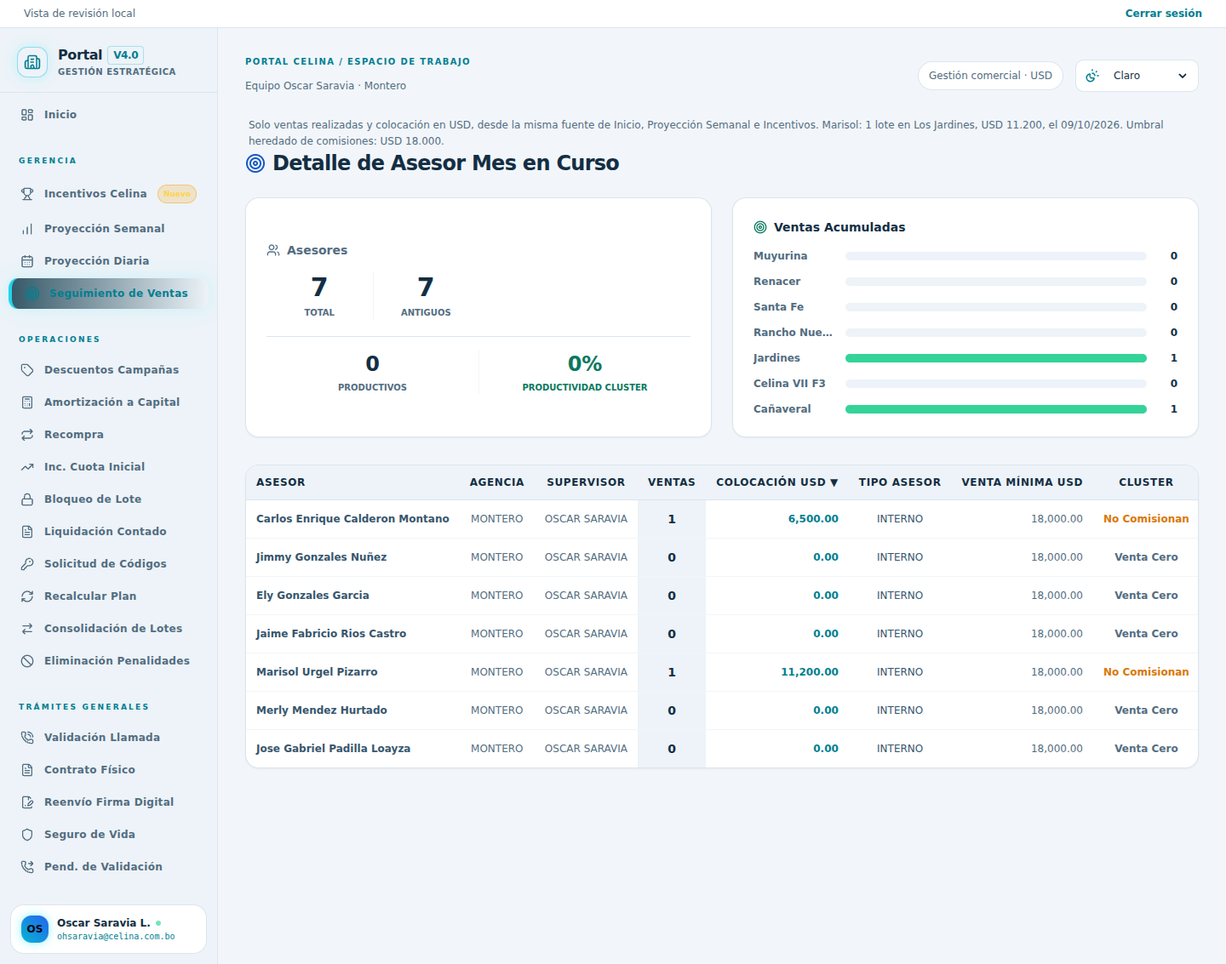
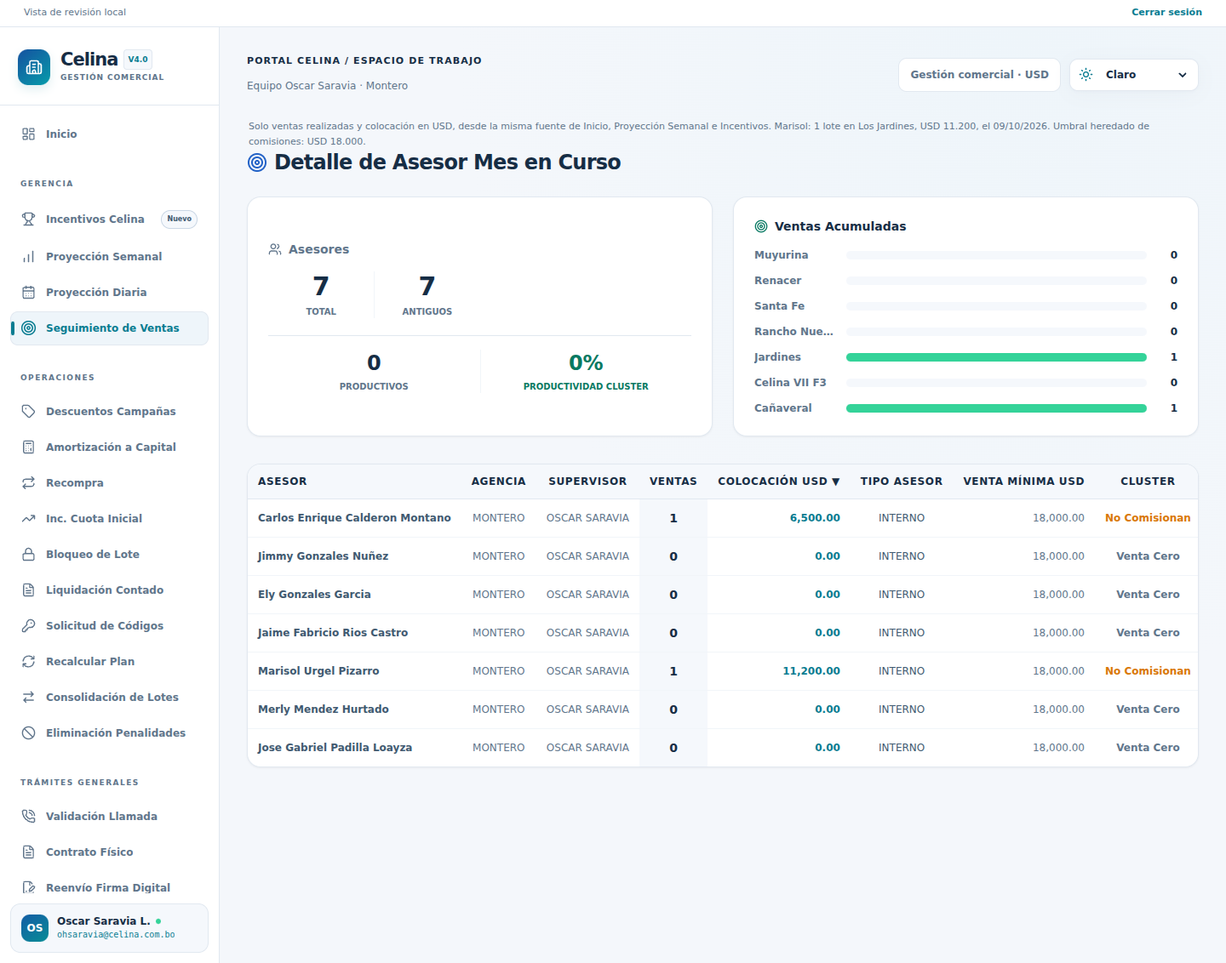
feat(ui): acabado ejecutivo en claro y oscuro con accesos directos

diff --git a/src/index.css b/src/index.css
@@ -119,3 +119,153 @@ progress { border:0; border-radius:8px; overflow:hidden; }
 progress::-webkit-progress-bar { background:var(--bg-card-inner); }
 progress::-webkit-progress-value { background:var(--emerald); border-radius:8px; }
 progress::-moz-progress-bar { background:var(--emerald); border-radius:8px; }
+
+/* Acabado V4: superficies, navegación y jerarquía comunes a todos los módulos. */
+:root {
+  --bg-space:#f4f7fb; --bg-card-inner:#f5f8fc; --bg-card-hover:#eef5fa;
+  --border-glow:#e1e8f0; --border-highlight:#c9d6e4;
+  --text-primary:#162d45; --text-secondary:#405970; --text-muted:#60758b;
+  --accent:#087c91; --blue:#2463c7; --emerald:#087962;
+  --surface-shadow:0 4px 24px rgba(23,46,78,.035),0 1px 3px rgba(23,46,78,.025);
+  --hero-bg:#102b46; --hero-text:#f5faff; --hero-muted:#bacfe1;
+}
+:root[data-theme="dark"] {
+  --bg-space:#09111f; --bg-card:#111e30; --bg-card-inner:#152438; --bg-card-hover:#1a2d43;
+  --border-glow:#233449; --border-highlight:#3b536e;
+  --text-primary:#f0f6fc; --text-secondary:#c1d1e2; --text-muted:#9eafc4;
+  --accent:#72dddf; --blue:#94baff; --emerald:#70dfb8;
+  --surface-shadow:0 6px 28px rgba(0,0,0,.13);
+  --hero-bg:#10233b;
+}
+body { font-variant-numeric:lining-nums; }
+::selection { background:#8ce4de; color:#102b46; }
+.workspace-main { background:radial-gradient(ellipse at 80% 0%,var(--bg-card-hover),transparent 50%),var(--bg-space); }
+.workspace-content { max-width:1480px; }
+.workspace-toolbar { padding-bottom:28px; }
+.workspace-toolbar .eyebrow { color:var(--text-primary); letter-spacing:.1em; font-size:11px; }
+.workspace-toolbar>div>span { font-size:12px; }
+.toolbar-actions { gap:10px; }
+.rate-pill { border-radius:10px; font-weight:600; background:var(--bg-card); padding:10px 13px; }
+.theme-selector { border-radius:10px; box-shadow:var(--surface-shadow); padding:6px 10px; gap:7px; }
+.theme-selector select { min-width:87px; font-weight:600; cursor:pointer; color:var(--text-primary); }
+.session-bar { font-size:11px; background:var(--bg-card); }
+.workspace-sidebar { width:258px; background:var(--bg-card)!important; border-color:var(--border-glow); height:100dvh; }
+.sidebar-brand { padding:26px 21px 23px; }
+.sidebar-brand h1 { font-size:21px; font-weight:750; letter-spacing:-.045em; }
+.sidebar-brand h1 span { font-size:9px; background:var(--bg-card-inner); border:1px solid var(--border-glow); padding:3px 5px; letter-spacing:0; }
+.sidebar-brand p { font-size:9px; font-weight:600; letter-spacing:.1em; margin-top:3px; }
+.sidebar-mark { background:linear-gradient(140deg,#1551a0,#069caa); color:#fff!important; border:0; box-shadow:0 5px 12px #087c9120; width:38px; height:42px; border-radius:12px; }
+.workspace-sidebar nav { padding:14px 12px; }
+.nav-section { padding-top:22px; padding-bottom:8px; }
+.nav-section span { color:var(--text-muted); font-size:9px; font-weight:650; letter-spacing:.16em; }
+.nav-item { background:transparent; font-size:12px; font-weight:550; padding:10px 12px; border:1px solid transparent; border-radius:9px; min-height:40px; transition:background .18s,color .18s; }
+.nav-item span { letter-spacing:0; }
+.nav-item svg { width:17px; height:17px; }
+.nav-item:hover { background:var(--bg-card-inner); }
+.nav-item[aria-current="page"] { background:var(--bg-card-hover); background-image:none; border:1px solid var(--border-glow); box-shadow:none; color:var(--accent); font-weight:700; }
+.nav-item[aria-current="page"]::after { content:""; width:4px; height:16px; border-radius:4px; position:absolute; left:0; top:50%; transform:translateY(-50%); background:var(--accent); }
+.nav-item>span { color:var(--text-secondary); background:var(--bg-card-inner); border-color:var(--border-highlight); font-size:8px; }
+.sidebar-profile { box-shadow:none; border-radius:12px; background:var(--bg-card-inner); padding:12px; }
+.sidebar-profile>div>div:first-child { color:#fff; box-shadow:none; border-radius:10px; background:linear-gradient(145deg,#135ca5,#098d96); }
+.sidebar-profile .animate-pulse { animation:none; }
+.mobile-workspace-header { background:var(--bg-card); box-shadow:none; }
+.eyebrow { font-size:10px; font-weight:700; letter-spacing:.13em; }
+.executive-dashboard { gap:24px; }
+.dashboard-hero { position:relative; isolation:isolate; overflow:hidden; border:1px solid #28465f; border-radius:22px; padding:36px 40px; gap:28px; color:var(--hero-text); background:radial-gradient(ellipse at 90% 15%,#15576b80,transparent 52%),linear-gradient(120deg,var(--hero-bg),#123b52); box-shadow:0 12px 30px #0b294314; }
+.dashboard-hero::before { content:""; position:absolute; inset:0; z-index:-1; opacity:.18; background-image:linear-gradient(#bfdde210 1px,transparent 1px),linear-gradient(90deg,#bfdde210 1px,transparent 1px); background-size:38px 38px; mask-image:linear-gradient(90deg,transparent 30%,#000); pointer-events:none; }
+.hero-content { flex:1; min-width:0; }
+.dashboard-hero .eyebrow { display:inline-flex; align-items:center; gap:8px; color:#bee6e9; font-size:9px; letter-spacing:.15em; padding:7px 11px; border-radius:30px; border:1px solid #8ae4dc30; background:#b3eeee08; }
+.hero-status-dot { width:5px; height:5px; border-radius:50%; background:#7ce6d7; }
+.dashboard-hero h1 { color:var(--hero-text); font-size:clamp(30px,3.15vw,44px); font-weight:700; line-height:1.18; letter-spacing:-.045em; margin:19px 0 12px; }
+.dashboard-hero h1 span { color:#88e2dc; }
+.dashboard-hero p:not(.eyebrow) { color:var(--hero-muted); font-size:13px; margin:0; line-height:1.7; }
+.hero-actions { display:flex; flex-wrap:wrap; gap:10px; margin-top:24px; }
+.hero-actions button { display:inline-flex; align-items:center; gap:12px; padding:11px 16px; border-radius:9px; border:1px solid #8dc1d440; background:#ffffff08; color:#e5f3fc; font-size:12px; font-weight:600; transition:background .18s,transform .18s; }
+.hero-actions .hero-action-primary { color:#12344a; background:#a0ede2; border-color:#a0ede2; }
+.hero-actions button:hover { background:#ffffff18; transform:translateY(-1px); }
+.hero-actions .hero-action-primary:hover { background:#b7f4ea; }
+.hero-meta { color:#bdd1e1; font-size:10px; margin-top:24px; }
+.hero-score { text-align:center; flex-shrink:0; padding:0 8px; }
+.achievement-ring { width:180px; height:180px; padding:7px; background:conic-gradient(#7de4d6 var(--achievement),#ffffff16 0); box-shadow:0 0 0 12px #ffffff03; }
+.achievement-ring>div { background:#15374b; padding:18px; }
+.achievement-ring strong { font-size:34px; font-weight:700; color:#fff; letter-spacing:-.04em; margin-top:8px; }
+.achievement-ring small { font-size:17px; margin-left:2px; color:#9ae5de; }
+.achievement-ring span { color:#c2d8e4; font-size:9px; }
+.achievement-ring .ring-label { font-size:7px; letter-spacing:.13em; color:#8cdfd8; margin:0; }
+.hero-score>p { margin-top:20px!important; font-size:10px!important; }
+.hero-score>p strong { display:block; color:#e7f4fa; font-size:14px; font-weight:600; margin-top:3px; }
+.source-note { font-size:11px; margin:0; padding:0 2px; }
+.metric-grid { gap:16px; }
+.metric-card,.panel { border-radius:16px; box-shadow:var(--surface-shadow); }
+.metric-card { position:relative; overflow:hidden; padding:22px 20px 19px; transition:transform .18s,box-shadow .18s; }
+.metric-card:hover { transform:translateY(-2px); box-shadow:0 8px 28px #102a4910; }
+.metric-card>div { font-size:11px; font-weight:600; align-items:flex-start; }
+.metric-card>div svg { padding:7px; width:34px; height:34px; background:var(--bg-card-inner); border-radius:10px; flex-shrink:0; margin-top:-4px; }
+.metric-card strong { font-size:clamp(21px,2vw,28px); font-weight:700; margin:17px 0 9px; letter-spacing:-.04em; }
+.metric-card p { font-size:10px; margin:0; min-height:32px; }
+.metric-card.current { border-top:2px solid var(--emerald); }
+.panel { padding:25px; }
+.panel h2 { font-size:20px; letter-spacing:-.035em; }
+.panel .eyebrow { color:var(--text-muted); font-size:9px; letter-spacing:.12em; }
+.subtle-badge { border:1px solid var(--border-glow); border-radius:20px; padding:6px 9px; white-space:nowrap; font-size:9px; }
+.table-tools { gap:9px; margin-top:18px; margin-bottom:18px; }
+.table-tools label,.table-tools select { background:var(--bg-card-inner); min-height:38px; }
+.executive-table { font-size:11px; }
+.executive-table th { font-size:10px; text-transform:none; letter-spacing:0; white-space:normal; background:var(--bg-card-inner); padding:13px 9px; }
+.executive-table td { padding:15px 9px; border-color:var(--border-glow); }
+.executive-table td:first-child { font-weight:550; white-space:normal; min-width:180px; max-width:230px; }
+.executive-table tbody tr:last-child td { border-bottom:0; }
+.executive-table tfoot { background:var(--bg-card-inner); }
+.executive-table tfoot td { border-bottom:0; }
+.advisor-avatar { width:29px; height:29px; border:1px solid var(--border-glow); border-radius:50%; font-size:9px; }
+.project-bars { gap:22px; }
+.project-bars>div>div:first-child { font-size:11px; }
+.bar-track { height:7px; }
+.bar-track>div { background:linear-gradient(90deg,#2467b6,#129da2); }
+.goal-progress>div { font-size:11px; }
+.reconciliation-status { border-radius:0 9px 9px 0; }
+.file-label input::file-selector-button { background:var(--bg-card-inner); color:var(--text-primary); border:1px solid var(--border-highlight); border-radius:7px; padding:7px 10px; margin-right:8px; cursor:pointer; }
+.workspace-main .shadow-2xl { box-shadow:var(--surface-shadow); }
+.workspace-main .rounded-3xl { border-radius:18px; }
+.form-field>label { font-weight:600; text-transform:none; letter-spacing:0; font-size:12px; margin-bottom:8px; }
+.form-field input,.form-field textarea { box-shadow:none; background:var(--bg-card); font-weight:450; font-size:13px; padding:12px 14px; border-color:var(--border-highlight); border-radius:10px; }
+.form-field input:hover,.form-field textarea:hover { border-color:var(--accent); }
+.form-field input:focus,.form-field textarea:focus { box-shadow:0 0 0 3px var(--cyan-glow); }
+.email-preview { border-radius:10px; padding:20px; }
+.login-card { box-shadow:var(--surface-shadow); border-radius:20px; }
+@media(min-width:1600px) { .workspace-main { padding:36px 44px; } }
+@media(max-width:1100px) { .dashboard-hero { padding:30px; } .metric-card strong { font-size:26px; } }
+@media(max-width:767px) {
+  .workspace-toolbar { gap:15px; padding:8px 3px 22px; }
+  .workspace-toolbar .eyebrow { font-size:10px; }
+  .toolbar-actions { justify-content:space-between; gap:8px; }
+  .rate-pill { font-size:10px!important; padding:10px; }
+  .theme-selector select { min-width:93px; font-size:12px!important; padding:4px; }
+  .theme-selector { padding:6px 8px; }
+  .executive-dashboard { gap:18px; }
+  .dashboard-hero { padding:25px 22px; gap:27px; border-radius:18px; align-items:stretch; }
+  .dashboard-hero h1 { font-size:32px; }
+  .dashboard-hero .eyebrow { font-size:8px; letter-spacing:.09em; }
+  .hero-actions { gap:8px; margin-top:21px; }
+  .hero-actions button { padding:10px 12px; font-size:11px; gap:8px; }
+  .hero-score { display:flex; align-items:center; justify-content:center; gap:22px; border-top:1px solid #a1d5e222; padding:22px 0 0; }
+  .achievement-ring { width:130px; height:130px; padding:5px; }
+  .achievement-ring>div { padding:12px; }
+  .achievement-ring strong { font-size:27px; }
+  .achievement-ring .ring-label { font-size:6px; }
+  .achievement-ring span { font-size:8px; }
+  .hero-score>p { margin:0!important; }
+  .hero-score>p strong { font-size:13px; }
+  .metric-grid { gap:10px; }
+  .metric-card { padding:17px 14px 16px; }
+  .metric-card>div { font-size:10px; gap:7px; }
+  .metric-card>div svg { width:27px; height:27px; padding:5px; }
+  .metric-card strong { font-size:20px; margin-top:15px; }
+  .metric-card p { font-size:9px; }
+  .panel { padding:20px 17px; }
+  .panel h2 { font-size:18px; }
+  .panel-heading { gap:8px; flex-wrap:wrap; }
+  .source-note { font-size:10px; }
+  .theme-selector { flex-shrink:0; }
+  .form-field input,.form-field textarea { font-size:16px; }
+}

diff --git a/src/views/Dashboard.jsx b/src/views/Dashboard.jsx
@@ -6,7 +6,7 @@ import { reconcileSale } from '../utils/commercial';
 const money = value => `USD ${new Intl.NumberFormat('es-BO', { minimumFractionDigits: 0, maximumFractionDigits: 2 }).format(value)}`;
 const percent = value => new Intl.NumberFormat('es-BO', { maximumFractionDigits: 2, minimumFractionDigits: 2 }).format(value);
 
-export default function Dashboard() {
+export default function Dashboard({ onNavigate }) {
   const [query, setQuery] = useState('');
   const [sort, setSort] = useState('name');
   const [records, setRecords] = useState(null);
@@ -26,7 +26,22 @@ export default function Dashboard() {
     } catch (failure) { setError(failure.message); }
   }
   return <div className="executive-dashboard">
-    <section className="dashboard-hero"><div><p className="eyebrow">DIRECCIÓN COMERCIAL · OCTUBRE 2026</p><h1>Una visión clara.<br/><span>Un equipo con rumbo.</span></h1><p>Resultados, oportunidades y decisiones en un solo lugar.</p><div className="hero-meta"><CalendarDays size={16}/> Corte de referencia: 10 de octubre de 2026 <span>·</span> 7 asesores · {advisors.reduce((sum, a) => sum + a.confirmedSales, 0)} ventas realizadas</div></div><div className="achievement-ring" style={{ '--achievement': `${Math.min(summary.achievementPct, 100)}%` }}><div><strong>{percent(summary.achievementPct)}<small>%</small></strong><span>Cumplimiento proyectado</span></div></div></section>
+    <section className="dashboard-hero">
+      <div className="hero-content">
+        <p className="eyebrow"><span className="hero-status-dot"/> DIRECCIÓN COMERCIAL · OCTUBRE 2026</p>
+        <h1>Una visión clara.<br/><span>Un equipo con rumbo.</span></h1>
+        <p>Resultados, oportunidades y decisiones en un solo lugar.</p>
+        <div className="hero-actions">
+          <button className="hero-action-primary" onClick={() => onNavigate?.('proyeccion')}>Revisar proyección <ArrowUpRight size={16}/></button>
+          <button onClick={() => onNavigate?.('seguimiento')}>Ver ventas <ArrowUpRight size={16}/></button>
+        </div>
+        <div className="hero-meta"><CalendarDays size={15}/> Corte: 10 de octubre de 2026 <span>·</span> 7 asesores · {advisors.reduce((sum, a) => sum + a.confirmedSales, 0)} ventas realizadas</div>
+      </div>
+      <div className="hero-score">
+        <div className="achievement-ring" style={{ '--achievement': `${Math.min(summary.achievementPct, 100)}%` }}><div><span className="ring-label">CIERRE PROYECTADO</span><strong>{percent(summary.achievementPct)}<small>%</small></strong><span>Cumplimiento proyectado</span></div></div>
+        <p>Objetivo mensual <strong>{money(targetUsd)}</strong></p>
+      </div>
+    </section>
     <p className="source-note"><ShieldCheck size={16}/> Ventas realizadas reportadas por supervisión. Inicio, Proyección Semanal, Seguimiento e Incentivos comparten esta colocación en USD. Las oportunidades proyectadas se mantienen separadas.</p>
     <div className="metric-grid">{[
       { label: 'Colocación actual', value: summary.actualUsd, detail: 'Solo ventas realizadas · USD 11.200 de Marisol incluidos', icon: CircleDollarSign, className: 'current' },
@@ -34,7 +49,7 @@ export default function Dashboard() {
       { label: 'Cierre de mes proyectado', value: summary.totalUsd, detail: 'Actual + proyección semanal', icon: ArrowUpRight },
       { label: 'Brecha proyectada', value: summary.gapUsd, detail: `Objetivo mensual: ${money(targetUsd)}`, icon: Target },
     ].map(({label, value, detail, icon: Icon, className}) => <article className={`metric-card ${className || ''}`} key={label}><div><span>{label}</span><Icon size={20}/></div><strong>{money(value)}</strong><p>{detail}</p></article>)}</div>
-    <div className="dashboard-columns"><section className="panel"><div className="panel-heading"><div><p className="eyebrow">DESEMPEÑO DEL EQUIPO</p><h2>Colocación por asesor</h2></div><span className="subtle-badge">Dólares americanos</span></div><div className="table-tools"><label><Search size={16}/><input aria-label="Buscar asesor" placeholder="Buscar asesor…" value={query} onChange={e => setQuery(e.target.value)}/></label><select aria-label="Orden de asesores" value={sort} onChange={e => setSort(e.target.value)}><option value="name">Nombre</option><option value="total">Mayor proyección</option></select></div><div className="table-scroll"><table className="executive-table"><thead><tr><th>Asesor</th><th>Ventas realizadas</th><th>Actual USD</th><th>Proyección USD</th><th>Total USD</th></tr></thead><tbody>{rows.map(a => <tr key={a.id}><td><span className="advisor-avatar">{a.nombre.split(' ').slice(0,2).map(n => n[0]).join('')}</span>{a.nombre}</td><td>{a.confirmedSales}</td><td>{money(a.actualUsd)}</td><td>{money(a.projectionUsd)}</td><td><strong>{money(a.actualUsd + a.projectionUsd)}</strong></td></tr>)}</tbody><tfoot><tr><th>Total equipo</th><td>{advisors.reduce((sum, a) => sum + a.confirmedSales, 0)}</td><td>{money(summary.actualUsd)}</td><td>{money(summary.projectionUsd)}</td><td>{money(summary.totalUsd)}</td></tr></tfoot></table>{!rows.length && <p>No se encontraron asesores.</p>}</div></section><section className="panel"><p className="eyebrow">OPORTUNIDADES</p><h2>7 lotes por concretar</h2><p className="muted">Distribución de la proyección, separada de los cierres.</p><div className="project-bars">{Object.entries(PROJECT_PROJECTION).map(([project, quantity]) => <div key={project}><div><span>{project}</span><strong>{quantity} {quantity === 1 ? 'lote' : 'lotes'}</strong></div><div className="bar-track"><div style={{width: `${quantity / 7 * 100}%`}}/></div></div>)}</div><div className="goal-progress"><div><span>Avance actual</span><strong>{percent(summary.currentPct)} %</strong></div><progress max="100" value={summary.currentPct} aria-label="Avance actual respecto al objetivo mensual"/><p>{money(summary.actualUsd)} de {money(targetUsd)}</p></div></section></div>
+    <div className="dashboard-columns"><section className="panel"><div className="panel-heading"><div><p className="eyebrow">DESEMPEÑO DEL EQUIPO</p><h2>Colocación por asesor</h2></div><span className="subtle-badge">7 asesores · USD</span></div><div className="table-tools"><label><Search size={16}/><input aria-label="Buscar asesor" placeholder="Buscar asesor…" value={query} onChange={e => setQuery(e.target.value)}/></label><select aria-label="Orden de asesores" value={sort} onChange={e => setSort(e.target.value)}><option value="name">Nombre</option><option value="total">Mayor proyección</option></select></div><div className="table-scroll"><table className="executive-table"><thead><tr><th>Asesor</th><th>Ventas realizadas</th><th>Actual USD</th><th>Proyección USD</th><th>Total USD</th></tr></thead><tbody>{rows.map(a => <tr key={a.id}><td><span className="advisor-avatar">{a.nombre.split(' ').slice(0,2).map(n => n[0]).join('')}</span>{a.nombre}</td><td>{a.confirmedSales}</td><td>{money(a.actualUsd)}</td><td>{money(a.projectionUsd)}</td><td><strong>{money(a.actualUsd + a.projectionUsd)}</strong></td></tr>)}</tbody><tfoot><tr><th>Total equipo</th><td>{advisors.reduce((sum, a) => sum + a.confirmedSales, 0)}</td><td>{money(summary.actualUsd)}</td><td>{money(summary.projectionUsd)}</td><td>{money(summary.totalUsd)}</td></tr></tfoot></table>{!rows.length && <p>No se encontraron asesores.</p>}</div></section><section className="panel"><p className="eyebrow">OPORTUNIDADES</p><h2>7 lotes por concretar</h2><p className="muted">Distribución de la proyección, separada de los cierres.</p><div className="project-bars">{Object.entries(PROJECT_PROJECTION).map(([project, quantity]) => <div key={project}><div><span>{project}</span><strong>{quantity} {quantity === 1 ? 'lote' : 'lotes'}</strong></div><div className="bar-track"><div style={{width: `${quantity / 7 * 100}%`}}/></div></div>)}</div><div className="goal-progress"><div><span>Avance actual</span><strong>{percent(summary.currentPct)} %</strong></div><progress max="100" value={summary.currentPct} aria-label="Avance actual respecto al objetivo mensual"/><p>{money(summary.actualUsd)} de {money(targetUsd)}</p></div></section></div>
     <div className="dashboard-columns"><section className="panel"><p className="eyebrow">CONCILIACIÓN DE OPERACIONES</p><h2>Marisol · {MARISOL_REFERENCE.project}</h2><p>{MARISOL_REFERENCE.lots} lote · USD {percent(MARISOL_REFERENCE.amountUsd)} · 09/10/2026. Venta reportada por supervisión e incluida una sola vez en las cuatro pestañas.</p><p>La colocación actual incluye únicamente ventas realizadas en USD. Las proyecciones no incrementan esta colocación ni la cantidad de ventas.</p><p className="reconciliation-status" role="status">{reconciliation.status === 'unverified' ? 'Registro remoto sin verificar: no existe conexión de ventas en esta versión.' : reconciliation.status === 'possible_duplicate' ? `${reconciliation.matches.length === 1 ? 'Se encontró 1 coincidencia candidata.' : `Se encontraron ${reconciliation.matches.length} coincidencias candidatas.`} Verifique el contrato antes de registrar.` : 'No se encontró coincidencia en el archivo proporcionado. Esto no confirma su ausencia en el CRM.'}</p><label className="file-label">Conciliar un extracto JSON del CRM (solo lectura)<input type="file" accept=".json,application/json" onChange={readRecords}/></label>{error && <p role="alert">{error}</p>}<details><summary>Datos pendientes para confirmar la operación</summary><p>Contrato o identificador único, cliente, UV, manzano, lote, comprobante y estado de validación. La referencia de supervisión no sustituye el registro ni la validación del contrato en el CRM. El archivo se analiza localmente y no se guarda ni envía.</p></details></section><section className="panel"><p className="eyebrow">VENTAS REALIZADAS</p><h2>Colocación del equipo · USD</h2><ul className="rate-history">{sales.map(sale => <li key={sale.id}><strong>{sale.advisor}</strong><span>{sale.project} · {sale.lots} lote · {money(sale.amountUsd)} · {sale.date ? sale.date.split('-').reverse().join('/') : 'Antecedente de octubre'}</span></li>)}</ul><details><summary>Reglas de productividad</summary><p>Incentivos: 2 ventas realizadas o USD 15.000, con carpetas al día. Seguimiento: umbral heredado de USD 18.000. Las posibles ventas no se usan para calificar. El tipo de cambio se utiliza únicamente en las simulaciones de descuentos para el cliente.</p></details></section></div>
   </div>;
 }

diff --git a/src/components/layout/Sidebar.jsx b/src/components/layout/Sidebar.jsx
@@ -12,7 +12,7 @@ import {
       <button
         aria-current={isActive ? "page" : undefined}
         onClick={onClickAction || (() => handleTabChange(id))}
-        className={`relative w-full flex items-center justify-between px-3.5 py-2.5 rounded-xl text-xs font-bold transition-all duration-300 group overflow-hidden ${
+        className={`nav-item relative w-full flex items-center justify-between px-3.5 py-2.5 rounded-xl text-xs font-bold transition-all duration-300 group overflow-hidden ${
           isActive
             ? 'bg-gradient-to-r from-cyan-950/80 to-transparent text-cyan-300 border-l-4 border-cyan-400 shadow-[0_0_20px_rgba(0,229,255,0.15)] pl-4'
             : 'text-[var(--text-muted)] hover:text-[var(--text-primary)] hover:bg-slate-900/60'
@@ -32,7 +32,7 @@ import {
   };
 
   const NavSection = ({ title }) => (
-    <div className="pt-5 pb-1.5 px-3">
+    <div className="nav-section pt-5 pb-1.5 px-3">
       <span className="text-[9px] font-black text-cyan-500/70 uppercase tracking-[0.25em]">
         {title}
       </span>
@@ -52,18 +52,18 @@ export const Sidebar = ({ activeTab, setActiveTab, isOpen, closeSidebar, setSupe
         <div className="fixed inset-0 bg-[var(--bg-space)]/80 backdrop-blur-sm z-40 md:hidden transition-opacity" onClick={closeSidebar} />
       )}
 
-      <aside className={`fixed inset-y-0 left-0 transform ${isOpen ? 'translate-x-0' : '-translate-x-full'} md:relative md:translate-x-0 transition-transform duration-300 ease-out z-50 w-64 bg-[var(--bg-card-inner)] text-[var(--text-primary)] flex flex-col border-r border-[var(--border-glow)] h-screen overflow-hidden shrink-0 shadow-2xl`}>
+      <aside className={`workspace-sidebar fixed inset-y-0 left-0 transform ${isOpen ? 'translate-x-0' : '-translate-x-full'} md:relative md:translate-x-0 transition-transform duration-300 ease-out z-50 w-64 bg-[var(--bg-card-inner)] text-[var(--text-primary)] flex flex-col border-r border-[var(--border-glow)] h-screen overflow-hidden shrink-0 shadow-2xl`}>
         {/* Cabecera */}
-        <div className="p-5 pb-4 shrink-0 flex justify-between items-center border-b border-[var(--border-glow)]">
+        <div className="sidebar-brand p-5 pb-4 shrink-0 flex justify-between items-center border-b border-[var(--border-glow)]">
           <div className="flex items-center gap-3">
-            <div className="w-9 h-9 rounded-xl bg-[var(--bg-card-inner)] border border-cyan-500/40 flex items-center justify-center text-cyan-400 shadow-[0_0_15px_rgba(0,229,255,0.2)]">
+            <div className="sidebar-mark w-9 h-9 rounded-xl bg-[var(--bg-card-inner)] border border-cyan-500/40 flex items-center justify-center text-cyan-400 shadow-[0_0_15px_rgba(0,229,255,0.2)]">
               <Building2 className="w-5 h-5" />
             </div>
             <div>
               <h1 className="text-base font-black text-[var(--text-primary)] tracking-tight flex items-center gap-1.5">
-                Portal <span className="text-cyan-400 text-xs px-1.5 py-0.5 rounded bg-cyan-950 border border-cyan-500/30">V4.0</span>
+                Celina <span className="text-cyan-400 text-xs px-1.5 py-0.5 rounded bg-cyan-950 border border-cyan-500/30">V4.0</span>
               </h1>
-              <p className="text-[10px] text-[var(--text-muted)] font-bold uppercase tracking-wider">Gestión Estratégica</p>
+              <p className="text-[10px] text-[var(--text-muted)] font-bold uppercase tracking-wider">Gestión comercial</p>
             </div>
           </div>
           <button aria-label="Cerrar menú" className="md:hidden p-1.5 rounded-lg text-[var(--text-muted)] hover:text-[var(--text-primary)]" onClick={closeSidebar}>
@@ -109,7 +109,7 @@ export const Sidebar = ({ activeTab, setActiveTab, isOpen, closeSidebar, setSupe
         </nav>
 
         {/* Pie de perfil */}
-        <div className="p-3 m-3 border border-[var(--border-glow)] bg-[var(--bg-card)] rounded-2xl shrink-0">
+        <div className="sidebar-profile p-3 m-3 border border-[var(--border-glow)] bg-[var(--bg-card)] rounded-2xl shrink-0">
           <div className="flex items-center">
             <div className="w-8 h-8 rounded-xl bg-gradient-to-tr from-cyan-500 to-blue-600 flex items-center justify-center mr-2.5 font-black text-xs text-slate-950 shadow-[0_0_12px_rgba(0,229,255,0.4)] shrink-0">
               OS

diff --git a/src/App.jsx b/src/App.jsx
@@ -49,7 +49,7 @@ export default function App() {
   const renderContent = () => {
     switch (activeTab) {
       // 1. Gerencia
-      case 'dashboard': return <Dashboard />;
+      case 'dashboard': return <Dashboard onNavigate={setActiveTab} />;
       case 'incentivos': return <IncentivosAsesores />; // 🟢 RUTA DEL CONCURSO DE INCENTIVOS
       case 'proyeccion': return <ProyeccionSemanal />;
       case 'diaria': return <ProyeccionDiaria />;
@@ -92,7 +92,7 @@ export default function App() {
   };
 
   return (
-    <AuthGate><a className="skip-link" href="#main-content">Ir al contenido</a><div className="min-h-screen bg-[var(--bg-space)] text-[var(--text-primary)] flex flex-col md:flex-row font-sans w-full overflow-x-hidden">
+    <AuthGate><a className="skip-link" href="#main-content">Ir al contenido</a><div className="workspace-shell min-h-screen bg-[var(--bg-space)] text-[var(--text-primary)] flex flex-col md:flex-row font-sans w-full overflow-x-hidden">
       <MobileHeader onMenuClick={() => setIsSidebarOpen(true)} />
 
       <Sidebar
@@ -103,8 +103,8 @@ export default function App() {
         setSupervisorDestino={setSupervisorDestino}
       />
 
-      <main id="main-content" className="flex-1 overflow-y-auto overflow-x-hidden p-3 sm:p-5 md:p-8 w-full min-h-[calc(100vh-64px)] md:min-h-screen bg-[var(--bg-space)]">
-        <div className="max-w-[1600px] mx-auto w-full pb-10">
+      <main id="main-content" className="workspace-main flex-1 overflow-y-auto overflow-x-hidden p-3 sm:p-5 md:p-8 w-full min-h-[calc(100vh-64px)] md:min-h-screen bg-[var(--bg-space)]">
+        <div className="workspace-content max-w-[1600px] mx-auto w-full pb-10">
           <header className="workspace-toolbar"><div><p className="eyebrow">PORTAL CELINA / ESPACIO DE TRABAJO</p><span>Equipo Oscar Saravia · Montero</span></div><div className="toolbar-actions"><span className="rate-pill">Gestión comercial · USD</span><ThemeSelector theme={theme} onChange={setTheme}/></div></header>
           <ErrorBoundary key={activeTab}><Suspense fallback={<div className="panel" role="status">Cargando módulo…</div>}>{renderContent()}</Suspense></ErrorBoundary>
         </div>

diff --git a/src/components/layout/MobileHeader.jsx b/src/components/layout/MobileHeader.jsx
@@ -3,17 +3,16 @@ import { Building2, Menu } from 'lucide-react';
 
 export const MobileHeader = ({ onMenuClick }) => {
   return (
-    <header className="md:hidden bg-[var(--bg-card-inner)] border-b border-[var(--border-glow)] text-[var(--text-primary)] px-4 py-3 flex items-center justify-between shrink-0 z-30 shadow-lg">
+    <header className="mobile-workspace-header md:hidden bg-[var(--bg-card-inner)] border-b border-[var(--border-glow)] text-[var(--text-primary)] px-4 py-3 flex items-center justify-between shrink-0 z-30 shadow-lg">
       <div className="flex items-center gap-2 font-black text-sm tracking-tight text-[var(--text-primary)]">
         <div className="w-7 h-7 rounded-lg bg-[var(--bg-card-inner)] border border-cyan-500/40 flex items-center justify-center text-cyan-400">
           <Building2 className="w-4 h-4" />
         </div>
-        <span>Portal Asesores</span>
+        <span>Portal Celina</span>
       </div>
       <button
         aria-label="Abrir menú" onClick={onMenuClick}
         className="p-1.5 rounded-lg bg-[var(--bg-card-inner)] border border-[var(--border-glow)] text-cyan-400 hover:text-[var(--text-primary)] transition-colors"
-        aria-label="Abrir Menú"
       >
         <Menu className="w-5 h-5" />
       </button>

diff --git a/src/components/ui/ThemeSelector.jsx b/src/components/ui/ThemeSelector.jsx
@@ -1,4 +1,5 @@
-import { SunMoon } from 'lucide-react';
+import { Sun, Moon, Monitor } from 'lucide-react';
 export function ThemeSelector({ theme, onChange }) {
-  return <label className="theme-selector"><SunMoon size={18} aria-hidden="true"/><span className="sr-only">Tema de apariencia</span><select aria-label="Tema de apariencia" value={theme} onChange={e => onChange(e.target.value)}><option value="light">Claro</option><option value="dark">Oscuro</option><option value="system">Automático</option></select></label>;
+  const Icon = theme === 'light' ? Sun : theme === 'dark' ? Moon : Monitor;
+  return <label className="theme-selector"><Icon size={17} aria-hidden="true"/><span className="sr-only">Tema de apariencia</span><select aria-label="Tema de apariencia" value={theme} onChange={e => onChange(e.target.value)}><option value="light">Claro</option><option value="dark">Oscuro</option><option value="system">Automático</option></select></label>;
 }

diff --git a/tests/e2e/portal.spec.js b/tests/e2e/portal.spec.js
@@ -8,6 +8,12 @@ async function enter(page) {
 
 test('temas persistentes, sistema operativo y dashboard móvil',async ({page}) => {
   await enter(page);
+  await page.getByRole('button', {name:'Ver ventas', exact:true}).click();
+  await expect(page.getByRole('heading', {name:'Detalle de Asesor Mes en Curso'})).toBeVisible();
+  await page.getByRole('button', {name:'Inicio', exact:true}).click();
+  await page.getByRole('button', {name:'Revisar proyección', exact:true}).click();
+  await expect(page.locator('.email-preview')).toContainText('65,300.00');
+  await page.getByRole('button', {name:'Inicio', exact:true}).click();
   const selector=page.getByRole('combobox',{name:'Tema de apariencia'});
   await selector.selectOption('light');
   await expect(page.locator('html')).toHaveAttribute('data-theme','light');

diff --git a/src/components/ui/Input.jsx b/src/components/ui/Input.jsx
@@ -1,7 +1,7 @@
 import React from 'react';
 
 export const Input = ({ label, name, value, onChange, placeholder, type = "text", required = false, className = "" }) => (
-  <div className={`mb-3.5 w-full ${className}`}>
+  <div className={`form-field mb-3.5 w-full ${className}`}>
     {label && (
       <label className="block text-[11px] font-black text-[var(--text-secondary)] uppercase tracking-wider mb-1.5 ml-0.5 truncate">
         {String(label)}

diff --git a/src/components/ui/TextArea.jsx b/src/components/ui/TextArea.jsx
@@ -1,7 +1,7 @@
 import React from 'react';
 
 export const TextArea = ({ label, name, value, onChange, placeholder, rows = 4 }) => (
-  <div className="mb-3.5 w-full">
+  <div className="form-field mb-3.5 w-full">
     {label && (
       <label className="block text-[11px] font-black text-[var(--text-secondary)] uppercase tracking-wider mb-1.5 ml-0.5 truncate">
         {String(label)}

diff --git a/docs/V4-DELIVERY.md b/docs/V4-DELIVERY.md
@@ -51,3 +51,14 @@ Los valores realizados de Incentivos son de lectura. Se conserva un escenario ed
 Corrección de moneda de premios: Bs 700 (110/60) y Bs 1.100 (120/60), incluidos bonos individuales, total del equipo y correos. Colocación, ventas y metas permanecen en USD; las reglas de calificación no cambian.
 
 Corrección de saludos: todos los correos usan el primer nombre del destinatario, sin títulos ni apellidos (por ejemplo, «Estimado Ulrich»). Se corrigió la vía de destinatario fijo de RRHH y se unificaron Incentivos, Campañas y simulaciones. Las identidades completas se conservan en los datos operativos. Revisada la redacción de alta CRM, renuncia, evaluación y postulantes, en HTML y texto.
+
+
+## Acabado visual ejecutivo
+
+- Encabezado azul profundo con acentos turquesa y accesos directos a proyección y ventas.
+- Navegación refinada, estado activo claro, perfil y marca Celina; menú móvil conservado.
+- Tarjetas de indicadores, tablas y formularios con superficies y espaciado consistentes.
+- Modo claro, oscuro y automático con preferencia persistente e icono correspondiente.
+- Diseño adaptable, navegación por teclado y respeto a movimiento reducido.
+
+Capturas actualizadas de escritorio claro/oscuro, móvil, Seguimiento e Incentivos. No se modificaron cálculos, registros comerciales, premios ni plantillas de correo.

diff --git a/docs/validation.md b/docs/validation.md
@@ -47,3 +47,8 @@ ESLint, 20 pruebas unitarias, build y las 10 pruebas de navegador aprobados. La 
 ## Saludos y Recursos Humanos
 
 21 pruebas unitarias y 11 pruebas de navegador aprobadas, además de ESLint y build. Saludo compartido por primer nombre sin títulos ni apellidos; RRHH usa «Estimado Ulrich». La nueva regresión verifica HTML y texto copiado de los cinco módulos: alta CRM, renuncia, evaluación, postulante y memorándum. El recorrido de los 25 módulos rechaza «Estimado/a» y títulos en los saludos. No se enviaron correos.
+
+
+## Acabado visual claro/oscuro
+
+ESLint, las 21 pruebas unitarias, build y las 11 pruebas de navegador aprobados. Revisión visual de escritorio en claro y oscuro y de móvil a 390 px. Tras ajustar la tabla se repitió la prueba de temas/móvil con los nuevos accesos directos «Revisar proyección» y «Ver ventas». Selector claro/oscuro/automático persistente, seguimiento del dispositivo y ausencia de desbordamiento horizontal del documento comprobados. Las tablas anchas mantienen desplazamiento horizontal propio en móvil.
